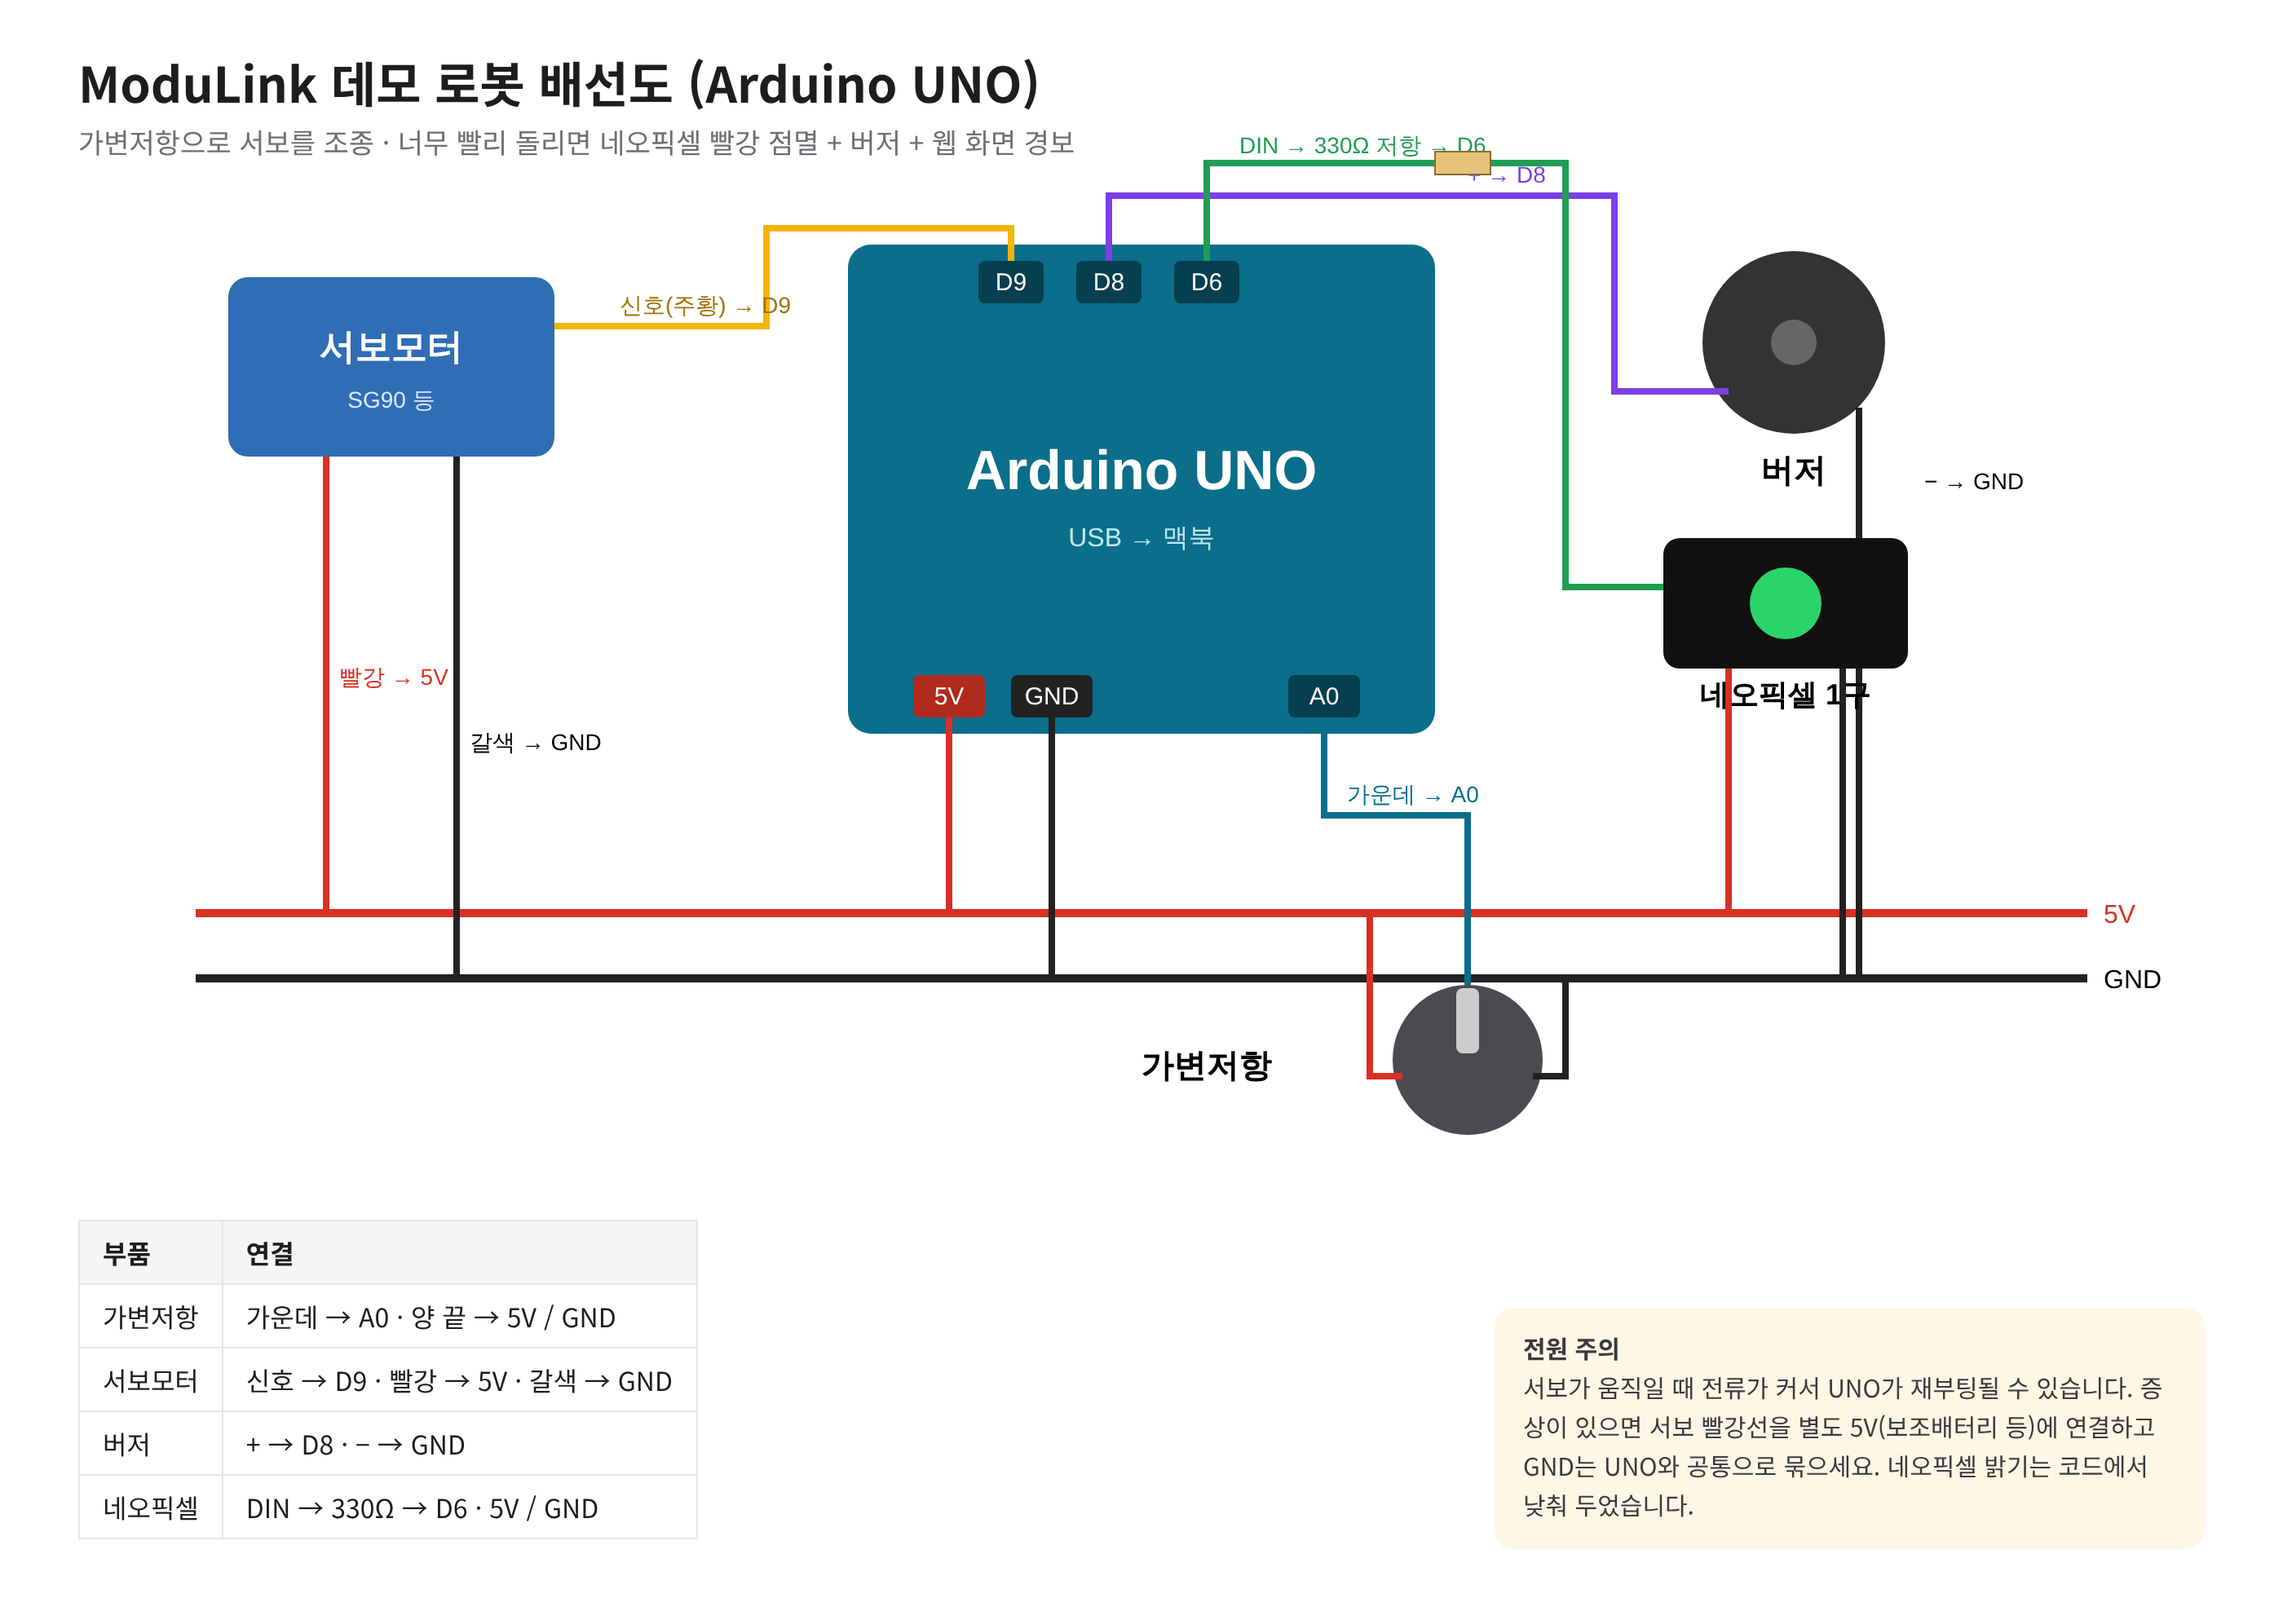
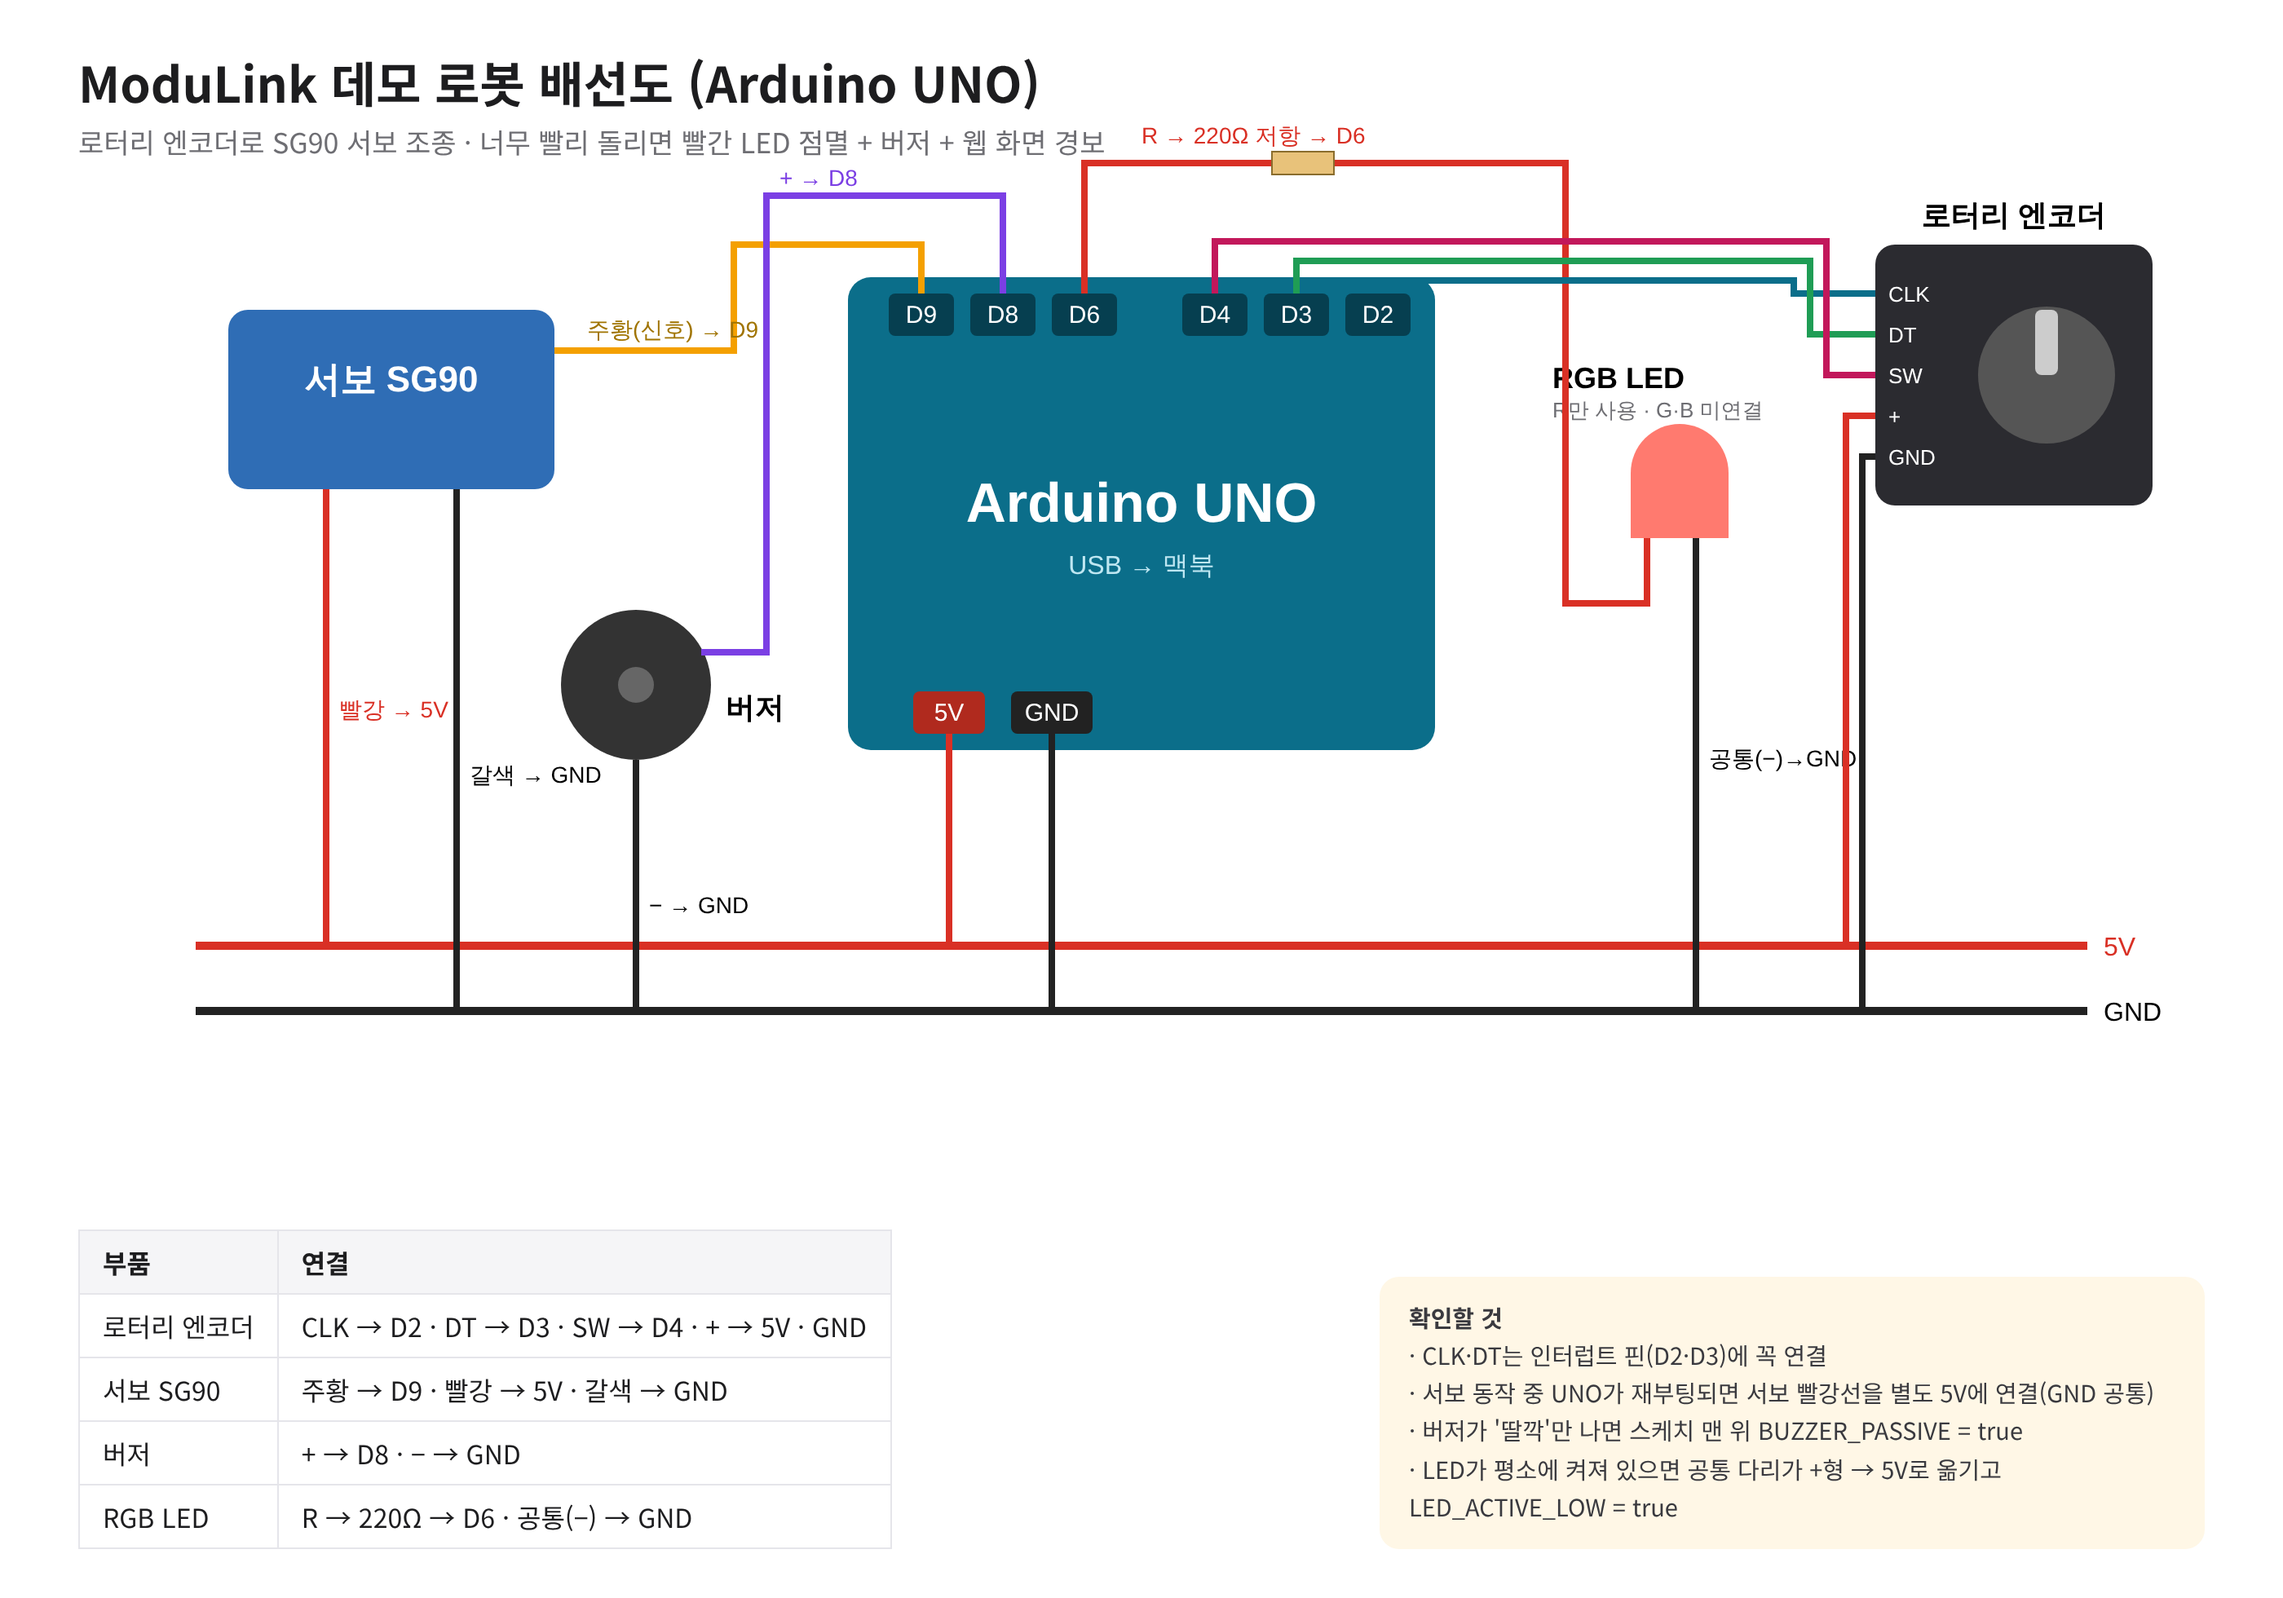
로봇 데모 하드웨어 변경: 로터리 엔코더·SG90·버저·RGB LED(R)
Claude-Session: https://claude.ai/code/session_01Vr6E2LGntpsWEnfaWAuWLy

diff --git a/src/components/RobotPanel.tsx b/src/components/RobotPanel.tsx
@@ -29,7 +29,7 @@ export default function RobotPanel({ visible }: { visible: boolean }) {
   const [now, setNow] = useState(0);
   const [history, setHistory] = useState<AlarmEvent[]>([]);
   const [trail, setTrail] = useState<number[]>([]);
-  const [threshold, setThreshold] = useState(250);
+  const [threshold, setThreshold] = useState(200);
   const [soundOn, setSoundOn] = useState(false);
   const [canSerial, setCanSerial] = useState(true);
 
@@ -251,7 +251,7 @@ export default function RobotPanel({ visible }: { visible: boolean }) {
 
             <div className="alarm-log">
               <div className="g-title">경보 이력 {history.length > 0 && <span className="count">{history.length}</span>}</div>
-              {history.length === 0 ? <p className="desc">아직 경보가 없어요. 가변저항을 빠르게 돌려 보세요.</p> : (
+              {history.length === 0 ? <p className="desc">아직 경보가 없어요. 엔코더 손잡이를 빠르게 돌려 보세요.</p> : (
                 <ul>{history.map((h) => {
                   const d = new Date(h.at);
                   return <li key={h.at}><b>{`${String(d.getHours()).padStart(2, "0")}:${String(d.getMinutes()).padStart(2, "0")}:${String(d.getSeconds()).padStart(2, "0")}`}</b> 과속 감지 · 최고 {h.peak}°/s (기준 {h.threshold}°/s) → 자동 정지 후 해제</li>;
@@ -260,7 +260,7 @@ export default function RobotPanel({ visible }: { visible: boolean }) {
             </div>
           </>
         )}
-        <p className="disclaimer">※ 데모용 소형 로봇(아두이노 UNO · 서보모터)입니다. 속도 제한 기준은 안전 체크리스트의 &apos;협동 운전 조건(속도·힘 제한)&apos;을 시연하기 위한 값입니다.</p>
+        <p className="disclaimer">※ 데모용 소형 로봇(아두이노 UNO · 로터리 엔코더 · SG90 서보)입니다. 엔코더 버튼을 누르면 서보가 가운데(90°)로 돌아갑니다. 속도 제한 기준은 안전 체크리스트의 &apos;협동 운전 조건(속도·힘 제한)&apos;을 시연하기 위한 값입니다.</p>
       </section>
     </>
   );

diff --git a/arduino/README.md b/arduino/README.md
@@ -1,6 +1,6 @@
 # ModuLink 데모 로봇 (Arduino UNO) 연동
 
-1. Arduino IDE → 라이브러리 매니저에서 **Adafruit NeoPixel** 설치 (Servo는 기본 포함)
+1. 추가 라이브러리 설치 없음 (Servo는 Arduino IDE 기본 포함)
 2. `modulink_robot/modulink_robot.ino` 업로드 (보드: Arduino Uno)
 3. 배선: `배선도.png` 참고
 4. 맥북 크롬(또는 엣지)으로 https://modulink-ai.vercel.app/#robot → **[아두이노 연결]** → 포트 선택
@@ -8,4 +8,11 @@
 5. 발표 PC에서 같은 주소 → **로봇 연동 → 모니터**에 맥북 화면의 4자리 코드 입력
 
 - 실시간 중계: 무료 공개 MQTT 브로커(EMQX → HiveMQ 순서로 자동 시도). 두 PC 모두 인터넷 필요
-- 과속 기준(기본 250°/s)은 맥북 화면 슬라이더로 조절, [경보 테스트]로 2초 경보 확인 가능
+- 엔코더를 돌리면 한 칸에 6°씩 서보가 움직이고, 버튼을 누르면 90°로 복귀
+- 과속 기준(기본 200°/s)은 맥북 화면 슬라이더로 조절, [경보 테스트]로 2초 경보 확인 가능
+
+## 부품에 따라 바꿀 설정 (스케치 맨 위)
+- 버저에서 '딸깍' 소리만 나면 → `BUZZER_PASSIVE = true`
+- LED가 반대로(평소에 켜짐) 동작하면 → 공통 다리를 5V로 옮기고 `LED_ACTIVE_LOW = true`
+- 엔코더 한 칸에 각도가 두 번 움직이거나 반만 움직이면 → `STEPS_PER_DETENT` 를 2 또는 4로
+- 돌리는 방향이 반대면 → `REVERSE = true`
